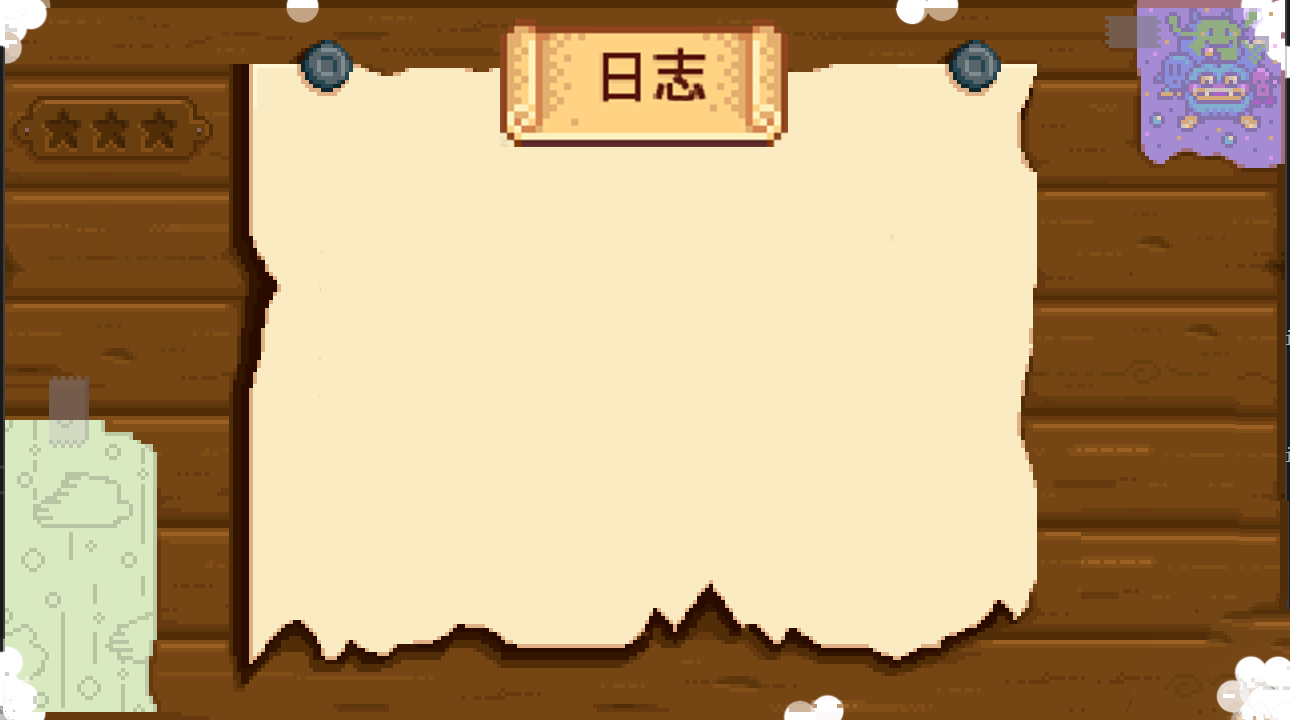
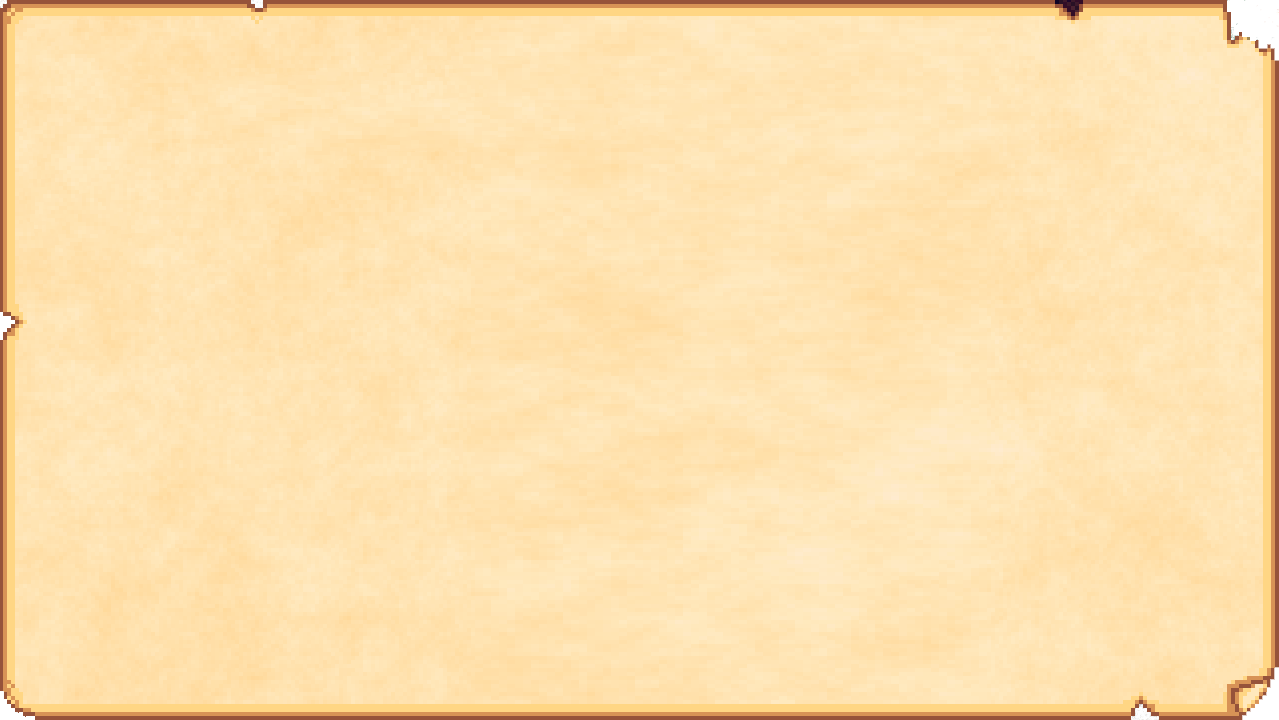
日志界面显示已经接受的任务

diff --git a/Classes/DailyRecordUI.h b/Classes/DailyRecordUI.h
@@ -18,4 +18,6 @@ private:
     void backgroundcreate ();
 
     void updateCoordinate ( float& x , float& y );
+
+    void taskDisplay ( TaskManagement& taskManager );
 };
